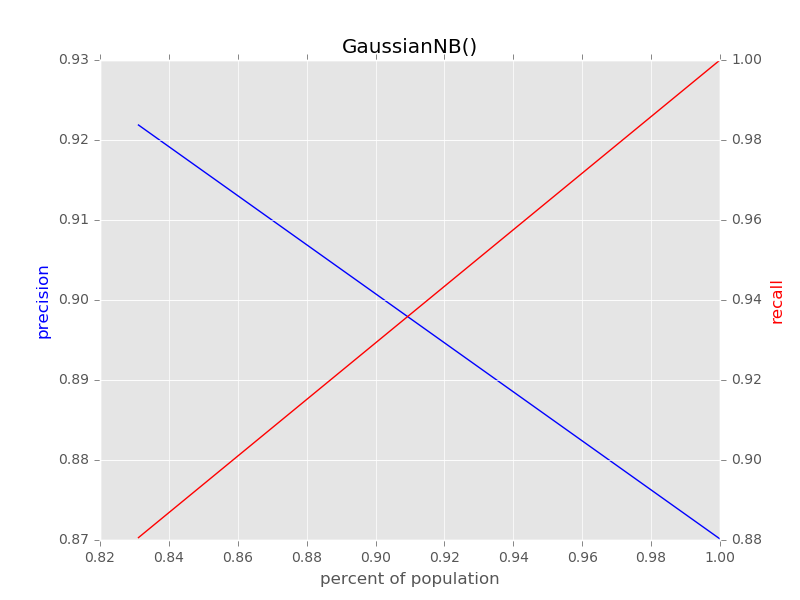
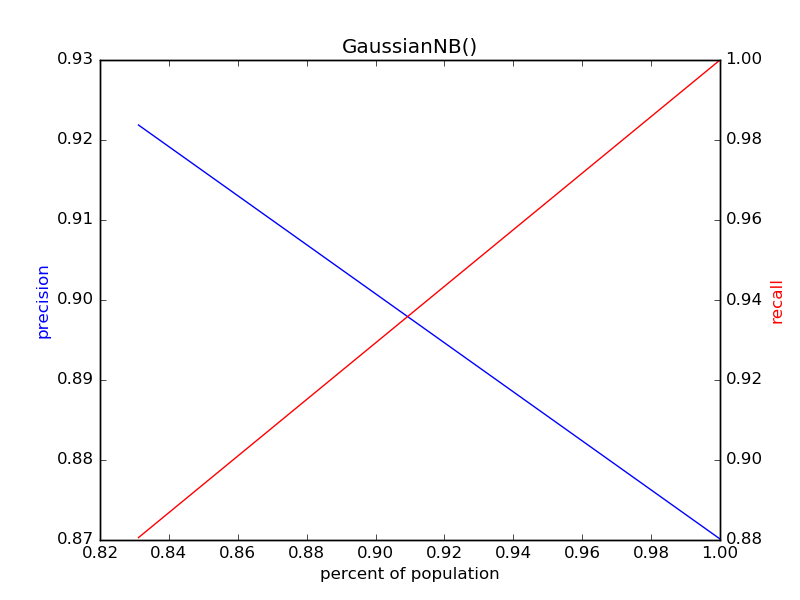
Adding more pictures

diff --git a/Features/emily_model.py b/Features/emily_model.py
@@ -18,7 +18,7 @@ import matplotlib
 matplotlib.use('Agg')
 
 import matplotlib.pyplot as plt
-plt.style.use('ggplot')
+#plt.style.use('ggplot')
 from scipy import optimize
 import time
 from sklearn.metrics import precision_recall_curve
@@ -177,7 +177,7 @@ def main(filename):
     '''
     clfs, grid = define_clfs_params()
     # models_to_run = ['LR','ET','AB','GB','NB','DT', 'KNN','RF']
-    models_to_run = ['NB']
+    models_to_run = ['NB', "ET", "AB", "GB", "DT", "KNN", "RF"]
     # X, y = get_x_and_y(filename)
     X, y = gen.go('../Example/resolved_joined.csv')
     top =  magic_loop(models_to_run, clfs, grid, X, y)
